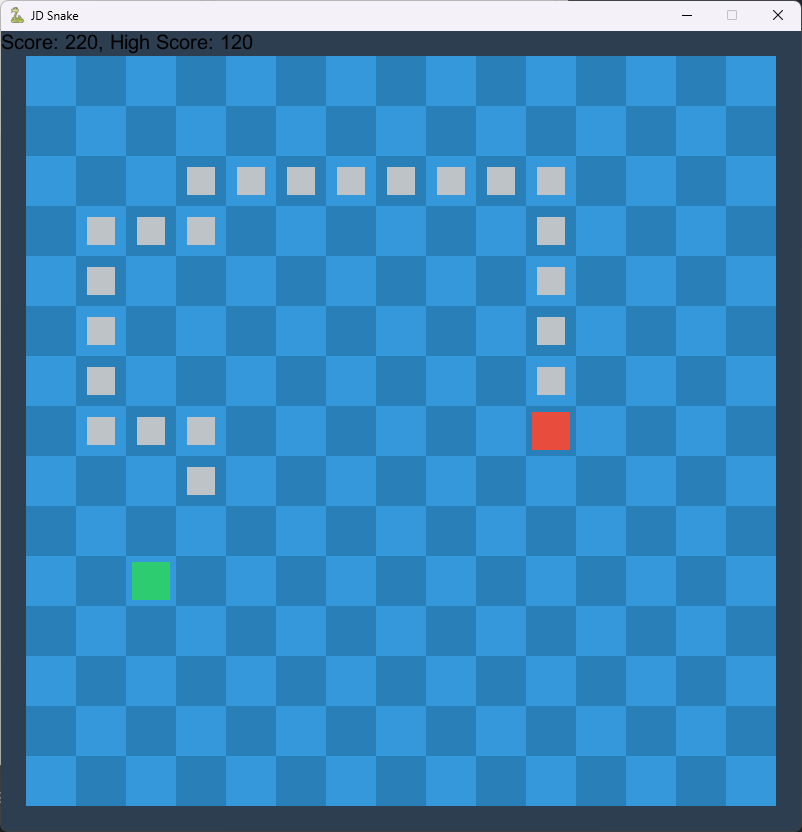
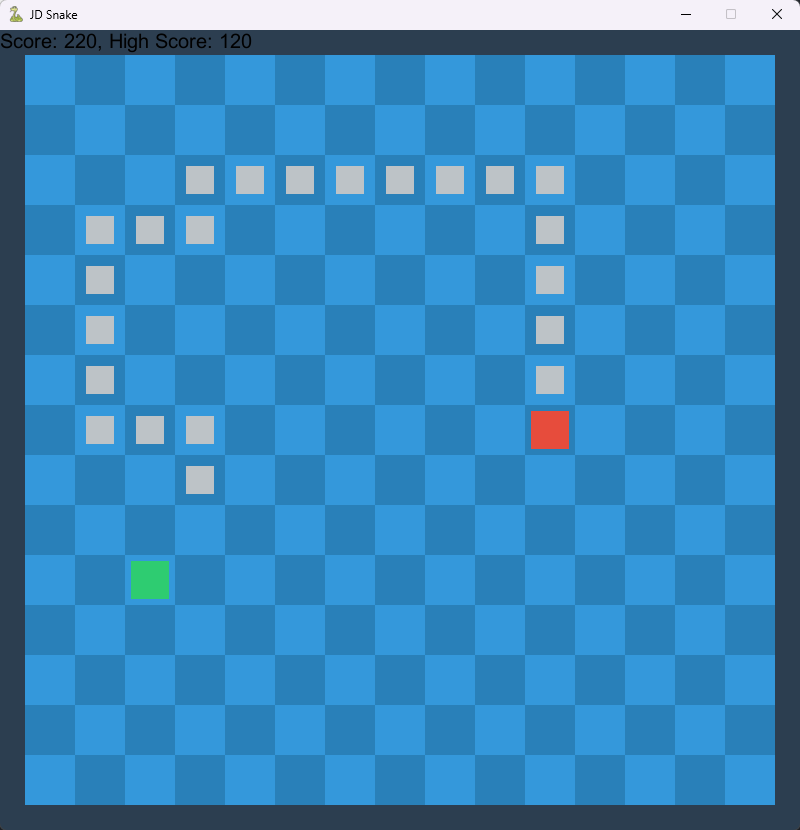
Added additional library screenshot, adjusted ReadMe, edited Snake screenshot

Changed region(s): [[0.0, 0.0, 0.3125, 0.0602], [0.9688, 0.0, 1.0, 0.0301], [0.9062, 0.0, 0.9375, 0.0301]]

diff --git a/README.md b/README.md
@@ -29,6 +29,10 @@ My concrete responsibility was the functionality of the book returns.
 
 (see "LibraryProject\src\main\java\swt\library\ReturnBookController.java" and "LibraryProject\src\main\resources\swt\library\returnBook.fxml")
 
+<p align="center">
+  <img src="/_screenshots/library_return.png" height="500" alt="Screenshot of the return page of the library project">
+</p>
+
 I:
 - ...created the GUI and logic for the return of the books.
 - ...helped create the DB table for the list of borrowed books and conceptionalized the return logic.
@@ -70,6 +74,7 @@ It uses JavaScript to build the page and the game logic and CSS to style the pag
 The game can run in 2 modes:
 - Local
 - Server
+
 This can be set by changing the script in line 15 to localLogic or remoteLogic respectively.
 
 Server logic communicates with a remote server set up by the lecturer to define a playing field and decide which fields to open, etc.
